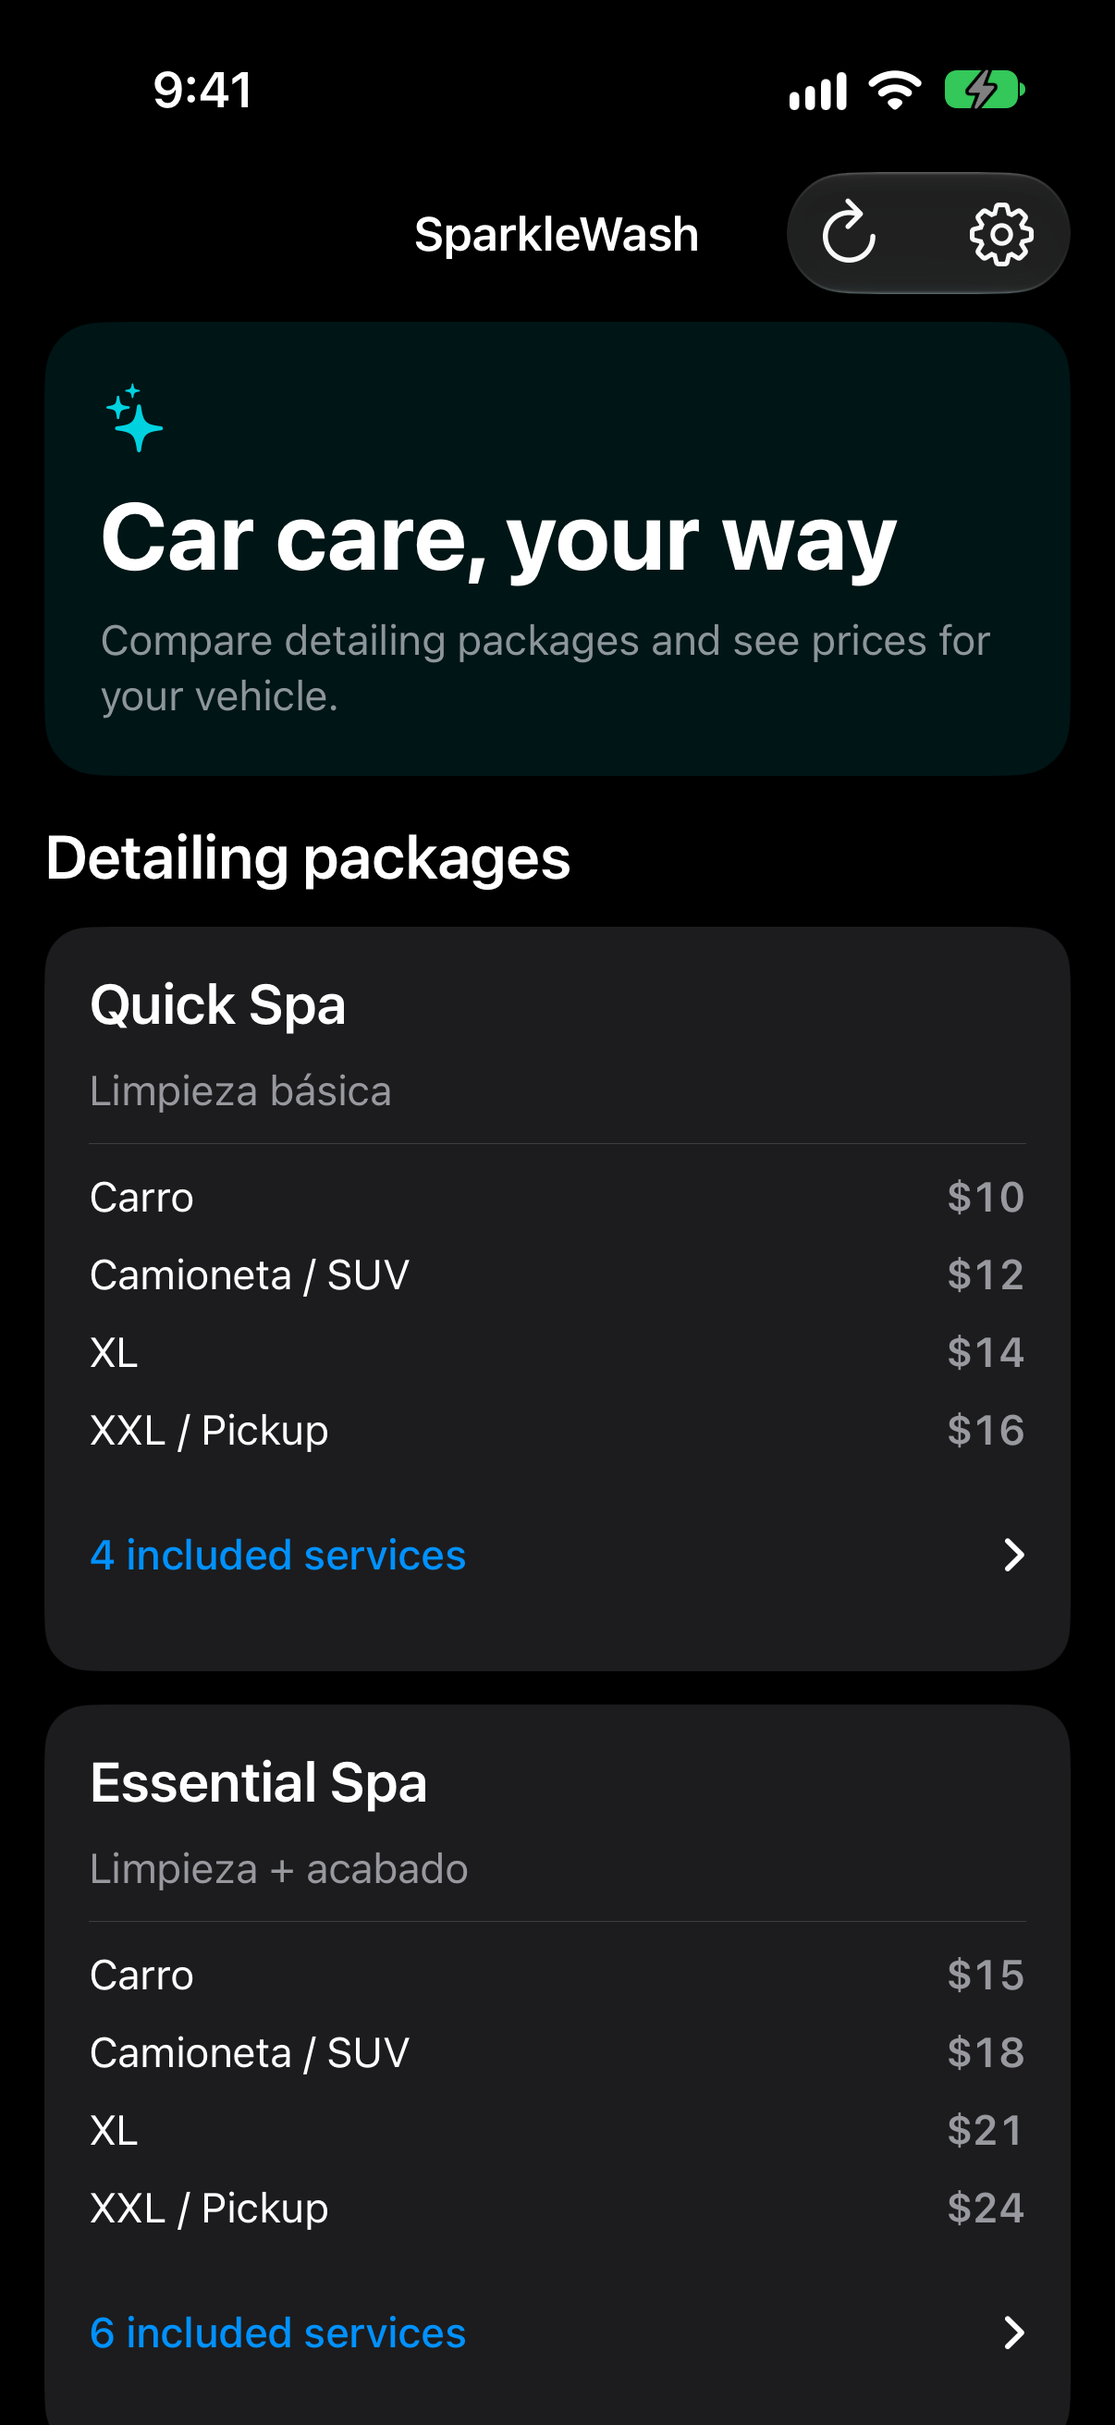
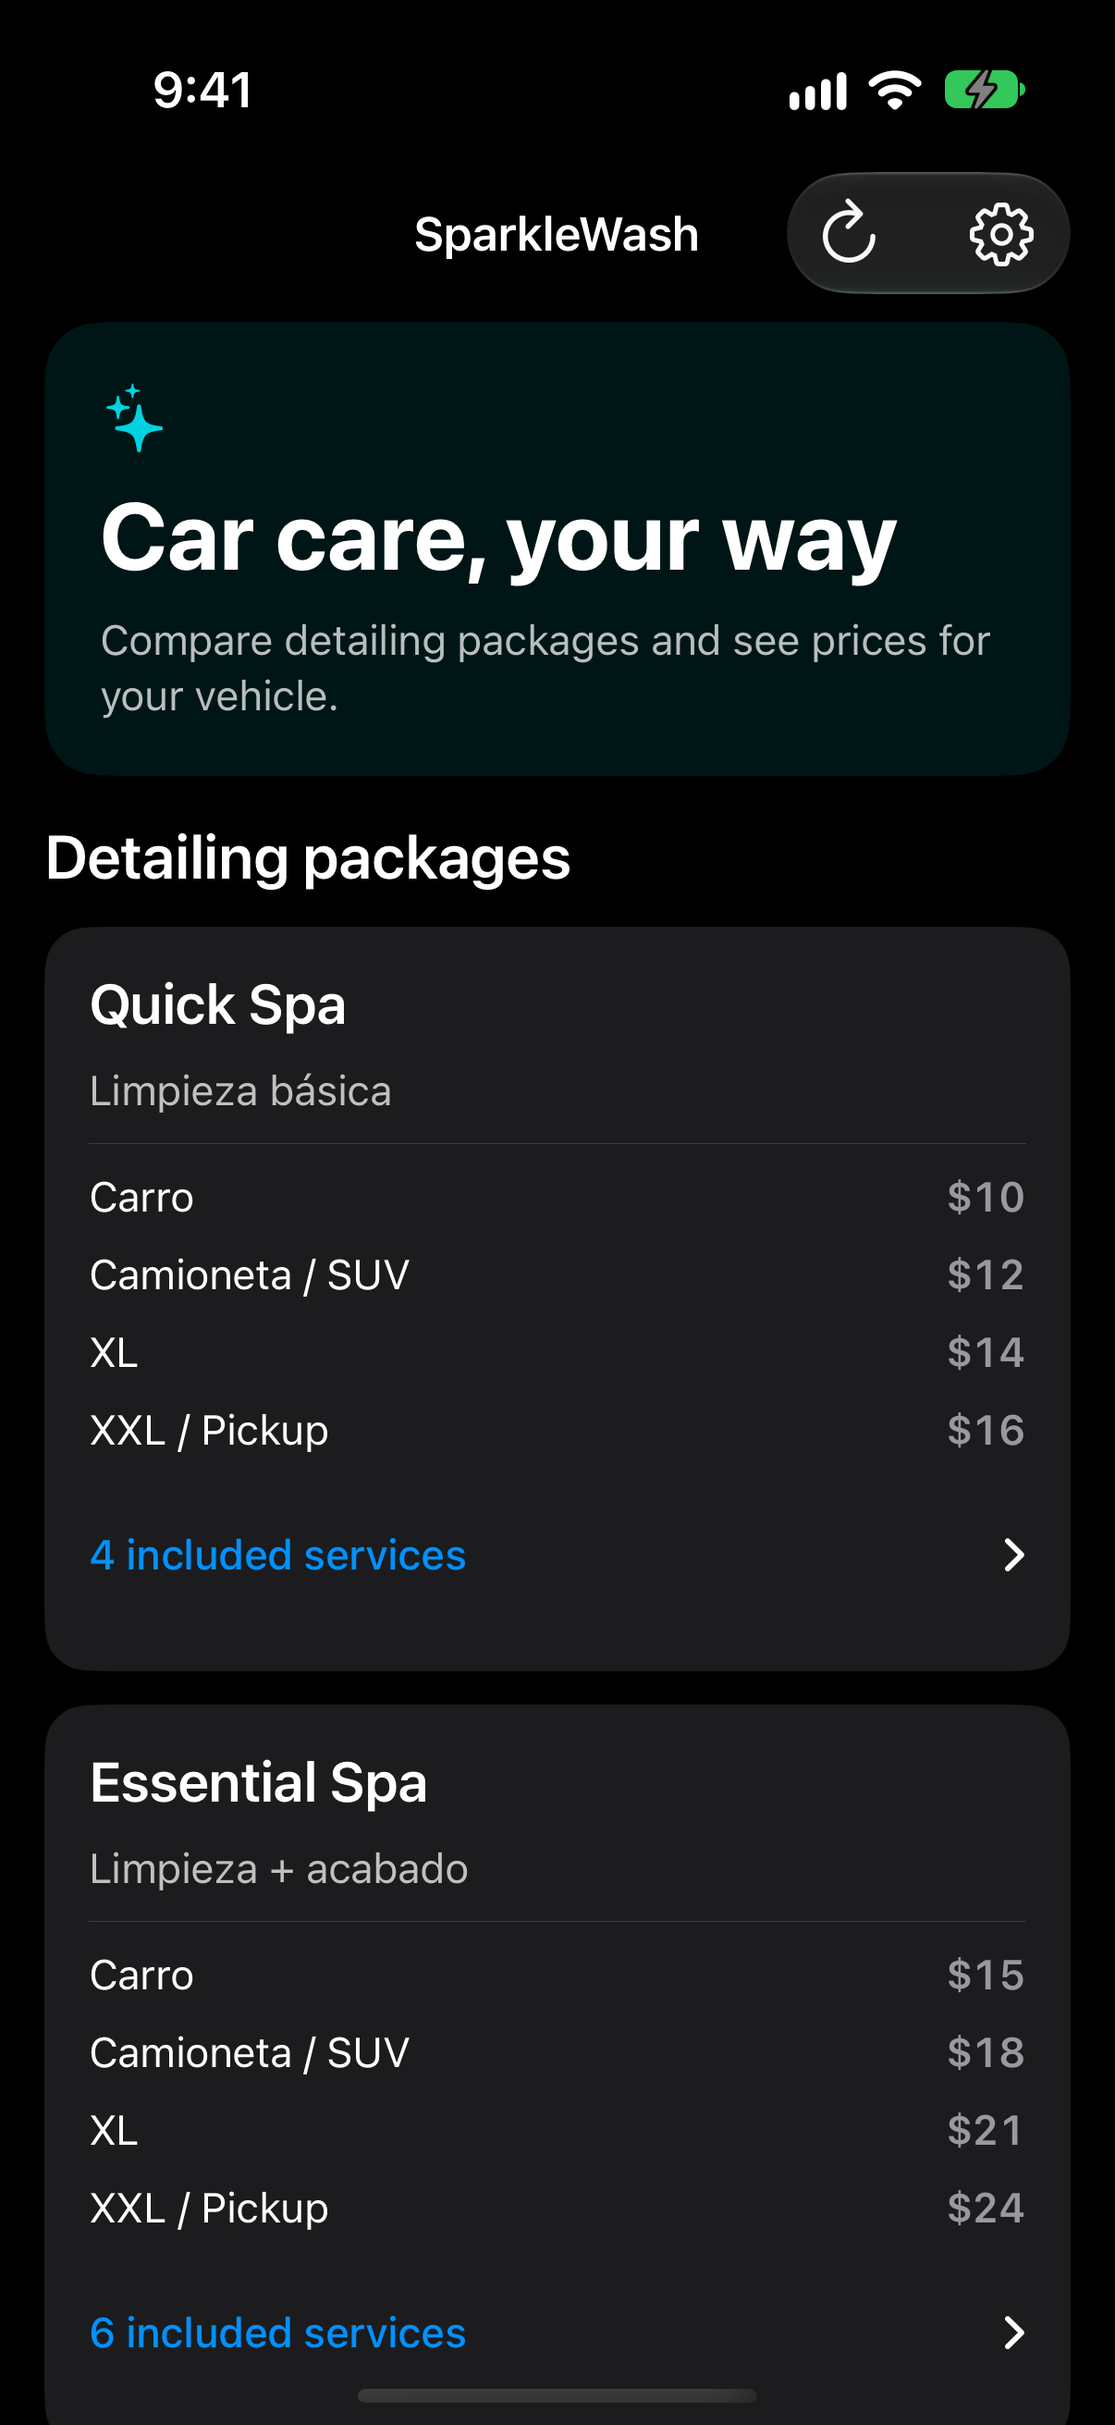
Improve iOS catalog contrast and refresh cost review

diff --git a/SparkleWash-iOS/Views/OperationsView.swift b/SparkleWash-iOS/Views/OperationsView.swift
@@ -602,7 +602,7 @@ struct OperationsView: View {
                 .accessibilityAddTraits(.isHeader)
             Text("Compare detailing packages and see prices for your vehicle.")
                 .font(.subheadline)
-                .foregroundStyle(.secondary)
+                .foregroundStyle(Color.primary.opacity(0.72))
         }
         .frame(maxWidth: .infinity, alignment: .leading)
         .padding(20)
@@ -620,7 +620,7 @@ struct OperationsView: View {
                 .accessibilityLabel("Sign in with Google for SparkleWash staff")
             } else {
                 Text("Staff sign-in is unavailable on this device.")
-                    .foregroundStyle(.secondary)
+                    .foregroundStyle(Color.primary.opacity(0.72))
             }
         }
         .frame(maxWidth: .infinity, alignment: .leading)
@@ -661,7 +661,7 @@ struct OperationsView: View {
     }
 
     private func metric(_ label: String, _ value: Int) -> some View {
-        VStack(alignment: .leading, spacing: 6) { Text(label).font(.subheadline).foregroundStyle(.secondary); Text(value.formatted()).font(.title).bold() }
+        VStack(alignment: .leading, spacing: 6) { Text(label).font(.subheadline).foregroundStyle(Color.primary.opacity(0.72)); Text(value.formatted()).font(.title).bold() }
             .frame(maxWidth: .infinity, alignment: .leading).padding()
             .background(Color(.secondarySystemBackground), in: RoundedRectangle(cornerRadius: 12))
             .accessibilityElement(children: .combine)
@@ -684,7 +684,7 @@ struct OperationsView: View {
         VStack(alignment: .leading, spacing: 12) {
             let linkedArrivals = Set(model.jobs.map(\.arrivalId))
             let pending = model.arrivals.filter { !linkedArrivals.contains($0.id) }
-            if pending.isEmpty { Text("No arrivals waiting for a job.").foregroundStyle(.secondary) }
+            if pending.isEmpty { Text("No arrivals waiting for a job.").foregroundStyle(Color.primary.opacity(0.72)) }
             ForEach(pending) { arrival in
                 NavigationLink {
                     ArrivalReviewView(model: model, arrival: arrival, endpoint: endpoint)
@@ -692,7 +692,7 @@ struct OperationsView: View {
                     VStack(alignment: .leading, spacing: 5) {
                         Text(arrival.confirmedPlate ?? arrival.plateCandidate ?? "Unreadable plate").font(.headline)
                         Text("Camera \(arrival.cameraId) · \(arrival.confirmedPlate == nil ? "Needs review" : "Confirmed")")
-                            .font(.subheadline).foregroundStyle(.secondary)
+                            .font(.subheadline).foregroundStyle(Color.primary.opacity(0.72))
                         if let confidence = arrival.confidence { Text("Candidate confidence \(Int(confidence * 100))%") }
                     }
                     .frame(maxWidth: .infinity, alignment: .leading).padding()
@@ -706,7 +706,7 @@ struct OperationsView: View {
 
     private var jobsSection: some View {
         VStack(alignment: .leading, spacing: 12) {
-            if model.jobs.isEmpty { Text("No vehicle jobs yet.").foregroundStyle(.secondary) }
+            if model.jobs.isEmpty { Text("No vehicle jobs yet.").foregroundStyle(Color.primary.opacity(0.72)) }
             ForEach(model.jobs) { job in
                 NavigationLink {
                     let detail = JobDetailView(model: model, job: job, endpoint: endpoint)
@@ -729,7 +729,7 @@ struct OperationsView: View {
                             }
                         }
                         Text("\(job.packageName) · $\(job.priceUsd.formatted()) · \(job.vehicleClass.uppercased())")
-                            .font(.subheadline).foregroundStyle(.secondary)
+                            .font(.subheadline).foregroundStyle(Color.primary.opacity(0.72))
                         Text("Time on site \(job.elapsedSeconds / 60) min · \(job.assignments.count) assigned")
                             .font(.subheadline)
                     }
@@ -762,7 +762,7 @@ struct OperationsView: View {
     private var employeeSection: some View {
         VStack(alignment: .leading, spacing: 12) {
             Text("Employees").font(.title2).fontWeight(.semibold)
-            if model.employees.isEmpty { Text("No employees added.").foregroundStyle(.secondary) }
+            if model.employees.isEmpty { Text("No employees added.").foregroundStyle(Color.primary.opacity(0.72)) }
             ForEach(model.employees) { employee in
                 LabeledContent(employee.name, value: employee.active ? "Active" : "Inactive")
                     .padding().background(Color(.secondarySystemBackground), in: RoundedRectangle(cornerRadius: 12))
@@ -773,7 +773,7 @@ struct OperationsView: View {
     private var inventorySection: some View {
         VStack(alignment: .leading, spacing: 12) {
             Text("Resources and stock").font(.title2).fontWeight(.semibold)
-            if model.inventory.isEmpty { Text("No compounds or supplies added.").foregroundStyle(.secondary) }
+            if model.inventory.isEmpty { Text("No compounds or supplies added.").foregroundStyle(Color.primary.opacity(0.72)) }
             ForEach(model.inventory) { stock in
                 VStack(alignment: .leading, spacing: 4) {
                     Text(stock.item.name).font(.headline)
@@ -794,7 +794,7 @@ struct OperationsView: View {
                     ForEach(catalog.packages) { package in
                         VStack(alignment: .leading, spacing: 10) {
                             Text(package.name).font(.title3.weight(.semibold))
-                            Text(package.subtitle).font(.subheadline).foregroundStyle(.secondary)
+                            Text(package.subtitle).font(.subheadline).foregroundStyle(Color.primary.opacity(0.72))
                             Divider()
                             ForEach(catalog.vehicleClasses, id: \.id) { vehicle in
                                 if let price = package.price(for: vehicle.id) {
@@ -828,7 +828,7 @@ struct OperationsView: View {
                 ProgressView("Loading service menu…")
             } else {
                 Text("The service menu is unavailable. Use Refresh to try again.")
-                    .foregroundStyle(.secondary)
+                    .foregroundStyle(Color.primary.opacity(0.72))
             }
         }
     }
@@ -874,7 +874,7 @@ private struct ArrivalReviewView: View {
                 }
                 if let package = model.catalog?.packages.first(where: { $0.id == packageId }), let price = package.price(for: vehicleClass) {
                     Text("Suggested \(package.name) · $\(price). Confirm choice before opening.")
-                        .font(.footnote).foregroundStyle(.secondary)
+                        .font(.footnote).foregroundStyle(Color.primary.opacity(0.72))
                 }
             }
             if model.canOperate {
@@ -920,10 +920,10 @@ private struct CompletedHistoryView: View {
                                 .font(.subheadline)
                         }
                         if isSyncing { ProgressView("Syncing archive…") }
-                        if let syncError { Text(syncError).font(.footnote).foregroundStyle(.secondary) }
+                        if let syncError { Text(syncError).font(.footnote).foregroundStyle(Color.primary.opacity(0.72)) }
                     }
                     Section("Completed jobs") {
-                        if completed.isEmpty { Text("No recent completed jobs").foregroundStyle(.secondary) }
+                        if completed.isEmpty { Text("No recent completed jobs").foregroundStyle(Color.primary.opacity(0.72)) }
                         ForEach(completed) { job in
                             historyRow(job.plate, package: job.packageName, date: job.completedAt.flatMap(OperationsDate.parse))
                         }
@@ -931,13 +931,13 @@ private struct CompletedHistoryView: View {
                     Section("Archive") {
                         if let archived {
                             Text("Saved \(archived.syncedAt.formatted(date: .abbreviated, time: .shortened))")
-                                .font(.footnote).foregroundStyle(.secondary)
-                            if archived.jobs.isEmpty { Text("No archived jobs").foregroundStyle(.secondary) }
+                                .font(.footnote).foregroundStyle(Color.primary.opacity(0.72))
+                            if archived.jobs.isEmpty { Text("No archived jobs").foregroundStyle(Color.primary.opacity(0.72)) }
                             ForEach(archived.jobs) { job in
                                 historyRow(job.plate, package: job.packageName, date: job.completedDate)
                             }
                         } else if !isSyncing {
-                            Text("No saved archive").foregroundStyle(.secondary)
+                            Text("No saved archive").foregroundStyle(Color.primary.opacity(0.72))
                         }
                     }
                 }
@@ -975,7 +975,7 @@ private struct CompletedHistoryView: View {
     private func historyRow(_ plate: String, package: String, date: Date?) -> some View {
         VStack(alignment: .leading, spacing: 4) {
             Text(plate).font(.headline)
-            Text(package).foregroundStyle(.secondary)
+            Text(package).foregroundStyle(Color.primary.opacity(0.72))
             if let date { Text(date, format: .dateTime.month().day().hour().minute()).font(.caption) }
         }
         .accessibilityElement(children: .combine)
@@ -1001,7 +1001,7 @@ private struct JobDetailView: View {
             }
             Section("Service checklist") { ForEach(currentJob.services, id: \.self) { service in Text(service) } }
             Section("Employees") {
-                if currentJob.assignments.isEmpty { Text("Unassigned").foregroundStyle(.secondary) }
+                if currentJob.assignments.isEmpty { Text("Unassigned").foregroundStyle(Color.primary.opacity(0.72)) }
                 ForEach(currentJob.assignments, id: \.employeeId) { employee in Text(employee.employeeName) }
                 if model.canOperate && currentJob.status != "completed" && currentJob.status != "cancelled" {
                     Picker("Assign employee", selection: $selectedEmployee) {

diff --git a/docs/cloud-cost-and-retention.md b/docs/cloud-cost-and-retention.md
@@ -4,7 +4,7 @@ Pricing checked November 5, 2026. Amounts are USD estimates for a single site an
 
 ## Hosting decision
 
-Start with **IBM Code Engine and Neon Free** for a short, disposable demo, as requested. Code Engine can stay within its grants at low billed runtime and request counts; validate whether the API fits the 0.125 vCPU / 0.25 GB smallest allocation before relying on the lower estimate. At a regular 240-hour month, Azure Container Apps Consumption is cheaper in this estimate, so compare measured usage before making a longer-running pilot decision. Neither platform is a durable production profile until operational records, staff sessions, and photos have independent persistence. Measure latency from the site in El Salvador and use the nearest compatible Neon region. Keep the image portable and run one instance initially to bound spend. [Neon regions](https://neon.com/docs/introduction/regions), [Azure billing](https://learn.microsoft.com/en-us/azure/container-apps/billing), [IBM billing](https://cloud.ibm.com/docs/codeengine?topic=codeengine-pricing)
+Start with **IBM Code Engine and Neon Free** for a short, disposable demo, as requested. Validate whether the API fits the 0.125 vCPU / 0.25 GB smallest allocation before relying on the lower estimate: at 240 active hours, that IBM profile is about $0.43 versus about $1.08 for Azure Container Apps Consumption at its modeled 0.25 vCPU / 0.5 GiB size. IBM's larger 0.25 / 0.5 profile is about $4.91 for the same workload. Compare measured usage and memory before making a longer-running pilot decision. Neither platform is a durable production profile until operational records, staff sessions, and photos have independent persistence. Measure latency from the site in El Salvador and use the nearest compatible Neon region. Keep the image portable and run one instance initially to bound spend. [Neon regions](https://neon.com/docs/introduction/regions), [Azure billing](https://learn.microsoft.com/en-us/azure/container-apps/billing), [IBM billing](https://cloud.ibm.com/docs/codeengine?topic=codeengine-pricing)
 
 | Meter | Azure Container Apps Consumption, East US 2 | IBM Code Engine |
 | --- | --- | --- |
@@ -22,11 +22,14 @@ credential, so the near-zero pilot estimate can use a repository with no
 incremental registry charge if one is available. [Azure Container Registry pricing](https://azure.microsoft.com/en-us/pricing/details/container-registry/) · [Azure retail price API](https://learn.microsoft.com/en-us/rest/api/cost-management/retail-prices)
 
 The pilot uses GitHub Container Registry. GitHub currently lists container
-image storage and bandwidth as free. Both Azure and IBM can pull the same Linux AMD64 image by digest using a
-dedicated read-only package token. The pinned Azure pilot digest is recorded
+image storage and bandwidth as free. Both Azure and IBM can pull the same Linux AMD64 image by digest. Public GHCR images need no pull token; private images need a dedicated read-only package token. The pinned Azure pilot digest is recorded
 in `deploy/azure/ghcr-demo.bicepparam`. The IBM workflow builds and pushes its
 own digest, while `deploy/ibm/deploy-demo.sh` can deploy an existing digest.
-For this public repository, standard GitHub-hosted runners are free. Actions artifacts are still a separate, metered storage product (GitHub Free includes 500 MB of shared artifact/Packages storage for private-repository usage); do not upload duplicate Docker tarballs. GHCR container image storage and transfer are currently free. [GitHub Actions billing](https://docs.github.com/en/billing/concepts/product-billing/github-actions), [included usage](https://docs.github.com/en/billing/reference/product-usage-included), [GitHub Packages billing](https://docs.github.com/en/billing/concepts/product-billing/github-packages)
+For the IBM workflow, first publish the package and change its GHCR visibility
+to public manually; only then set `GHCR_PUBLIC=true`. The repository being
+public does not make a GHCR package public. The workflow checks an anonymous
+pull before skipping private registry credentials.
+For this public repository, standard GitHub-hosted runners are free. Actions artifacts use a separate storage allowance; avoid uploading duplicate Docker tarballs. GHCR container image storage and transfer are currently free. [GitHub Actions billing](https://docs.github.com/en/billing/concepts/product-billing/github-actions), [included usage](https://docs.github.com/en/billing/reference/product-usage-included), [GitHub Packages billing](https://docs.github.com/en/billing/concepts/product-billing/github-packages)
 
 Azure rates came from its retail API filtered by service and East US 2. Confirm IBM rates for the selected location and account in its estimator. IBM requires a Pay-as-you-Go account for Code Engine. [Azure pricing](https://azure.microsoft.com/en-us/pricing/details/container-apps/), [Azure retail price API](https://learn.microsoft.com/en-us/rest/api/cost-management/retail-prices/azure-retail-prices), [IBM price example](https://cloud.ibm.com/docs/account?topic=account-sample), [IBM supported sizes](https://cloud.ibm.com/docs/codeengine?topic=codeengine-mem-cpu-combo), [IBM setup](https://cloud.ibm.com/docs/codeengine?topic=codeengine-deploy-app-tutorial)
 

diff --git a/docs/reviews/2026-11-05-ios-review.md b/docs/reviews/2026-11-05-ios-review.md
@@ -4,7 +4,7 @@
 
 Reviewed the active SwiftUI target declared by `SparkleWash-iOS/project.yml`,
 `OperationsView.swift`, `OperationsModels.swift`, SwiftData archive tests, and
-the November 4 public-catalog simulator capture. Applied the UI/UX Pro Max
+the November 5 public-catalog simulator captures. Applied the UI/UX Pro Max
 SwiftUI and native pre-delivery guidance, then checked Apple's current SwiftUI,
 SwiftData, and accessibility references. On November 5, launched the app on an
 iPhone 17 Pro simulator against a local API backed by isolated temporary JSON
@@ -42,16 +42,19 @@ Re-ran `make ios-build` and `make ios-test` after adding per-job archive rows.
   replacing the rows. Cold-launch offline reading requires a live staff token
   and has no signed short-lived entitlement. This remains an expiring local
   cache, not an independently durable local Neon archive.
-- VoiceOver focus through pinned headers, largest Dynamic Type, light-mode
-  contrast, signed-in iPhone/iPad layouts, and Reduce Motion need runtime
-  acceptance. `simctl` captured the public screens, but interactive signed-in
-  Simulator testing is not configured because staff OAuth credentials are
-  absent.
+- Default secondary text measured 3.29:1 against a light card surface in the
+  earlier capture. Operations secondary copy now uses semantic primary color
+  at 0.72 opacity; refreshed light and dark captures look legible. A full pixel
+  contrast audit across surfaces and Dynamic Type sizes remains open. VoiceOver
+  focus through pinned headers, largest Dynamic Type, signed-in iPhone/iPad
+  layouts, and Reduce Motion also need runtime acceptance. Interactive
+  sign-in testing is not configured because staff OAuth credentials are absent.
 
 ## Verification
 
 - `make ios-build` — passed.
-- `make ios-test` — passed all 7 simulator tests, including disk-backed
+- `make ios-test` — passed all 7 simulator tests on November 5 after the
+  contrast adjustment, including disk-backed
   per-job persistence, migration from the former archive blob, expiry cleanup,
   and withdrawn-batch handling.
 - iPhone 17 Pro simulator, iOS 27, live catalog backed by the local API — light
